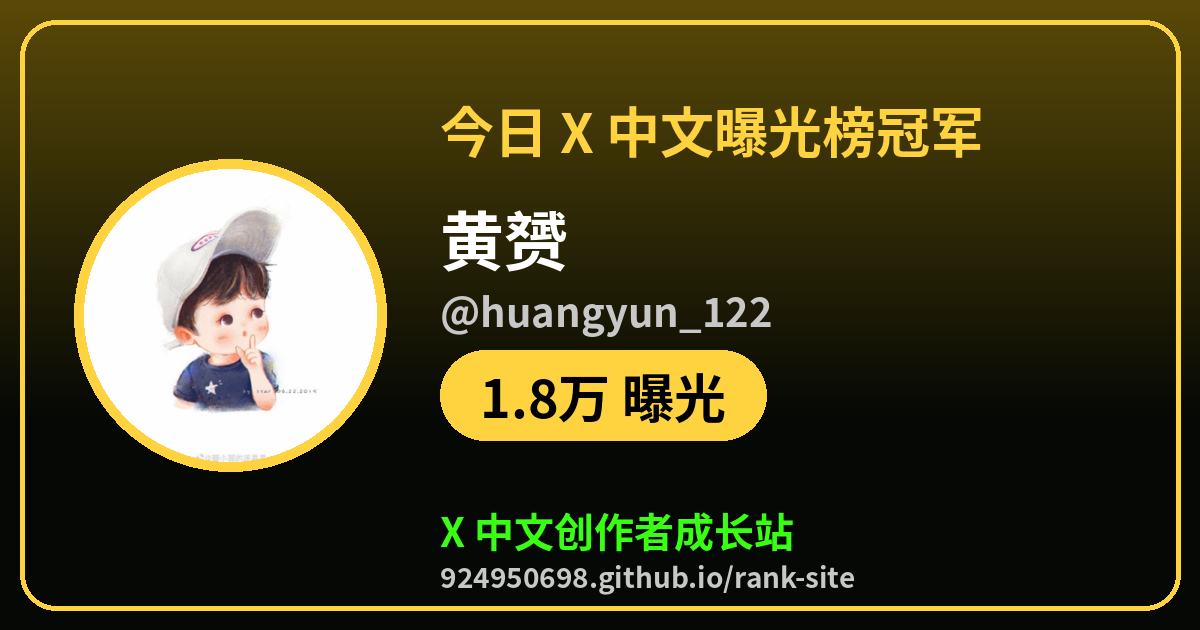
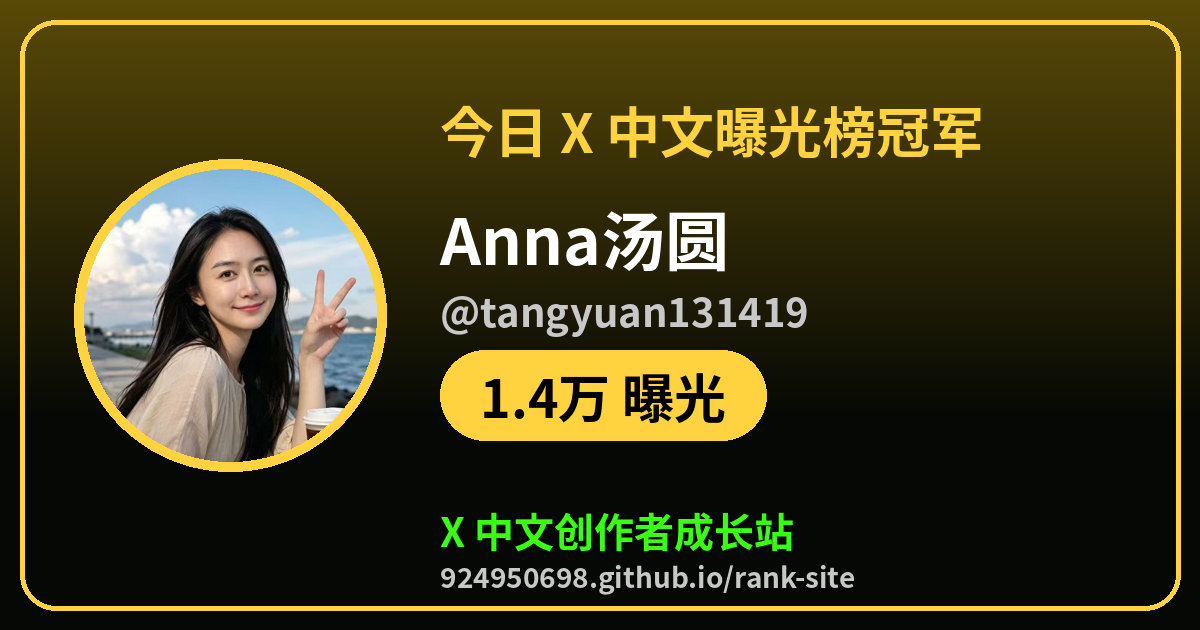
champ: 2026-10-21 03:23 CST

Changed region(s): [[0.0617, 0.2714, 0.3392, 0.754], [0.37, 0.3317, 0.6783, 0.5429], [0.4317, 0.6032, 0.4625, 0.6635]]

diff --git a/champ/exposure.html b/champ/exposure.html
@@ -1,7 +1,7 @@
 <!doctype html><html lang="zh-CN"><head><meta charset="utf-8"><meta name="viewport" content="width=device-width,initial-scale=1">
-<title>今日 X 中文曝光榜冠军：黄赟（@huangyun_122）</title><meta name="description" content="1.8万 曝光，来看看今天谁在爆，你排第几">
-<meta property="og:type" content="website"><meta property="og:url" content="https://924950698.github.io/rank-site/champ/exposure.html"><meta property="og:title" content="今日 X 中文曝光榜冠军：黄赟（@huangyun_122）"><meta property="og:description" content="1.8万 曝光，来看看今天谁在爆，你排第几">
-<meta property="og:image" content="https://924950698.github.io/rank-site/champ/exposure.png?v=20261020T1808"><meta name="twitter:card" content="summary_large_image"><meta name="twitter:site" content="@tigerr3aue">
-<meta name="twitter:title" content="今日 X 中文曝光榜冠军：黄赟（@huangyun_122）"><meta name="twitter:description" content="1.8万 曝光，来看看今天谁在爆，你排第几"><meta name="twitter:image" content="https://924950698.github.io/rank-site/champ/exposure.png?v=20261020T1808">
-<meta http-equiv="refresh" content="0;url=https://924950698.github.io/rank-site/?champ=huangyun_122&amp;board=exposure#rank"><script>location.replace("https://924950698.github.io/rank-site/?champ=huangyun_122&board=exposure#rank")</script></head>
-<body style="background:#000;color:#fff;font-family:sans-serif;text-align:center;padding:40px"><a href="https://924950698.github.io/rank-site/?champ=huangyun_122&amp;board=exposure#rank" style="color:#39ff14">去 X 中文创作者成长站看冠军卡片</a></body></html>
+<title>今日 X 中文曝光榜冠军：Anna汤圆🦅（@tangyuan131419）</title><meta name="description" content="1.4万 曝光，来看看今天谁在爆，你排第几">
+<meta property="og:type" content="website"><meta property="og:url" content="https://924950698.github.io/rank-site/champ/exposure.html"><meta property="og:title" content="今日 X 中文曝光榜冠军：Anna汤圆🦅（@tangyuan131419）"><meta property="og:description" content="1.4万 曝光，来看看今天谁在爆，你排第几">
+<meta property="og:image" content="https://924950698.github.io/rank-site/champ/exposure.png?v=20261020T1910"><meta name="twitter:card" content="summary_large_image"><meta name="twitter:site" content="@tigerr3aue">
+<meta name="twitter:title" content="今日 X 中文曝光榜冠军：Anna汤圆🦅（@tangyuan131419）"><meta name="twitter:description" content="1.4万 曝光，来看看今天谁在爆，你排第几"><meta name="twitter:image" content="https://924950698.github.io/rank-site/champ/exposure.png?v=20261020T1910">
+<meta http-equiv="refresh" content="0;url=https://924950698.github.io/rank-site/?champ=tangyuan131419&amp;board=exposure#rank"><script>location.replace("https://924950698.github.io/rank-site/?champ=tangyuan131419&board=exposure#rank")</script></head>
+<body style="background:#000;color:#fff;font-family:sans-serif;text-align:center;padding:40px"><a href="https://924950698.github.io/rank-site/?champ=tangyuan131419&amp;board=exposure#rank" style="color:#39ff14">去 X 中文创作者成长站看冠军卡片</a></body></html>

diff --git a/champ/comments.html b/champ/comments.html
@@ -1,7 +1,7 @@
 <!doctype html><html lang="zh-CN"><head><meta charset="utf-8"><meta name="viewport" content="width=device-width,initial-scale=1">
-<title>今日 X 中文评论榜冠军：Anna汤圆🦅（@tangyuan131419）</title><meta name="description" content="657 评论，来看看今天谁在爆，你排第几">
-<meta property="og:type" content="website"><meta property="og:url" content="https://924950698.github.io/rank-site/champ/comments.html"><meta property="og:title" content="今日 X 中文评论榜冠军：Anna汤圆🦅（@tangyuan131419）"><meta property="og:description" content="657 评论，来看看今天谁在爆，你排第几">
-<meta property="og:image" content="https://924950698.github.io/rank-site/champ/comments.png?v=20261020T1808"><meta name="twitter:card" content="summary_large_image"><meta name="twitter:site" content="@tigerr3aue">
-<meta name="twitter:title" content="今日 X 中文评论榜冠军：Anna汤圆🦅（@tangyuan131419）"><meta name="twitter:description" content="657 评论，来看看今天谁在爆，你排第几"><meta name="twitter:image" content="https://924950698.github.io/rank-site/champ/comments.png?v=20261020T1808">
+<title>今日 X 中文评论榜冠军：Anna汤圆🦅（@tangyuan131419）</title><meta name="description" content="664 评论，来看看今天谁在爆，你排第几">
+<meta property="og:type" content="website"><meta property="og:url" content="https://924950698.github.io/rank-site/champ/comments.html"><meta property="og:title" content="今日 X 中文评论榜冠军：Anna汤圆🦅（@tangyuan131419）"><meta property="og:description" content="664 评论，来看看今天谁在爆，你排第几">
+<meta property="og:image" content="https://924950698.github.io/rank-site/champ/comments.png?v=20261020T1910"><meta name="twitter:card" content="summary_large_image"><meta name="twitter:site" content="@tigerr3aue">
+<meta name="twitter:title" content="今日 X 中文评论榜冠军：Anna汤圆🦅（@tangyuan131419）"><meta name="twitter:description" content="664 评论，来看看今天谁在爆，你排第几"><meta name="twitter:image" content="https://924950698.github.io/rank-site/champ/comments.png?v=20261020T1910">
 <meta http-equiv="refresh" content="0;url=https://924950698.github.io/rank-site/?champ=tangyuan131419&amp;board=comments#rank"><script>location.replace("https://924950698.github.io/rank-site/?champ=tangyuan131419&board=comments#rank")</script></head>
 <body style="background:#000;color:#fff;font-family:sans-serif;text-align:center;padding:40px"><a href="https://924950698.github.io/rank-site/?champ=tangyuan131419&amp;board=comments#rank" style="color:#39ff14">去 X 中文创作者成长站看冠军卡片</a></body></html>
